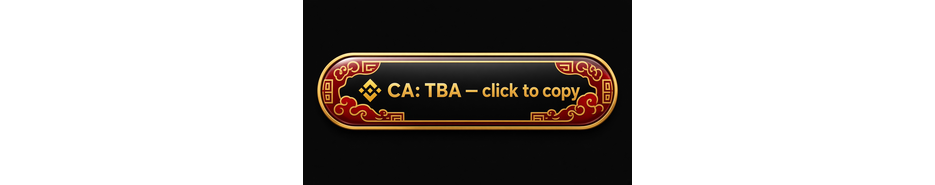
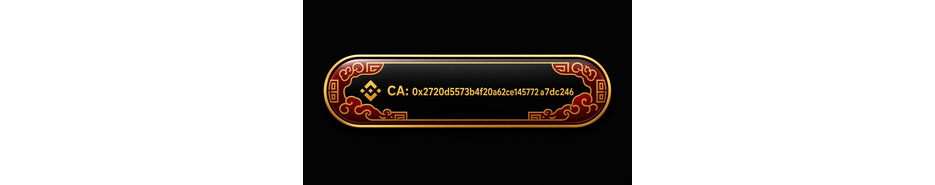
update

Changed region(s): [[0.3412, 0.2703, 0.6824, 0.7027]]

diff --git a/index.html b/index.html
@@ -44,8 +44,8 @@
     <div class="url_btn">
         <img class="fake_bg" src="image/index03.jpg" alt="Join the Charge">
         <div class="hotspot-container">
-            <div class="hotspot hotspot-1" data-url="https://dexscreener.com/bsc"></div>
-            <div class="hotspot hotspot-2" data-url="https://bscscan.com"></div>
+            <div class="hotspot hotspot-1" data-url="https://dexscreener.com/bsc/0x2720d5573b4f20a62ce145772cf4e6992a7dc246"></div>
+            <div class="hotspot hotspot-2" data-url="https://bscscan.com/token/0x2720d5573b4f20a62ce145772cf4e6992a7dc246"></div>
             <div class="hotspot hotspot-3" data-url="https://x.com/benbenbnb"></div>
             <div class="hotspot hotspot-4" data-url="https://t.me/benbenonbnb"></div>
         </div>
@@ -82,8 +82,7 @@
         const images = [
             'image/wen-1.png'
         ];
-        // Contract address TBA — update when CA is live
-        var TOKEN_CONTRACT = "";
+        var TOKEN_CONTRACT = "0x2720d5573b4f20a62ce145772cf4e6992a7dc246";
         var TOKEN_NAME = "犇犇";
         var TOKEN_TICKER = "犇犇";
         var DONATION_RECEIVER = "";
